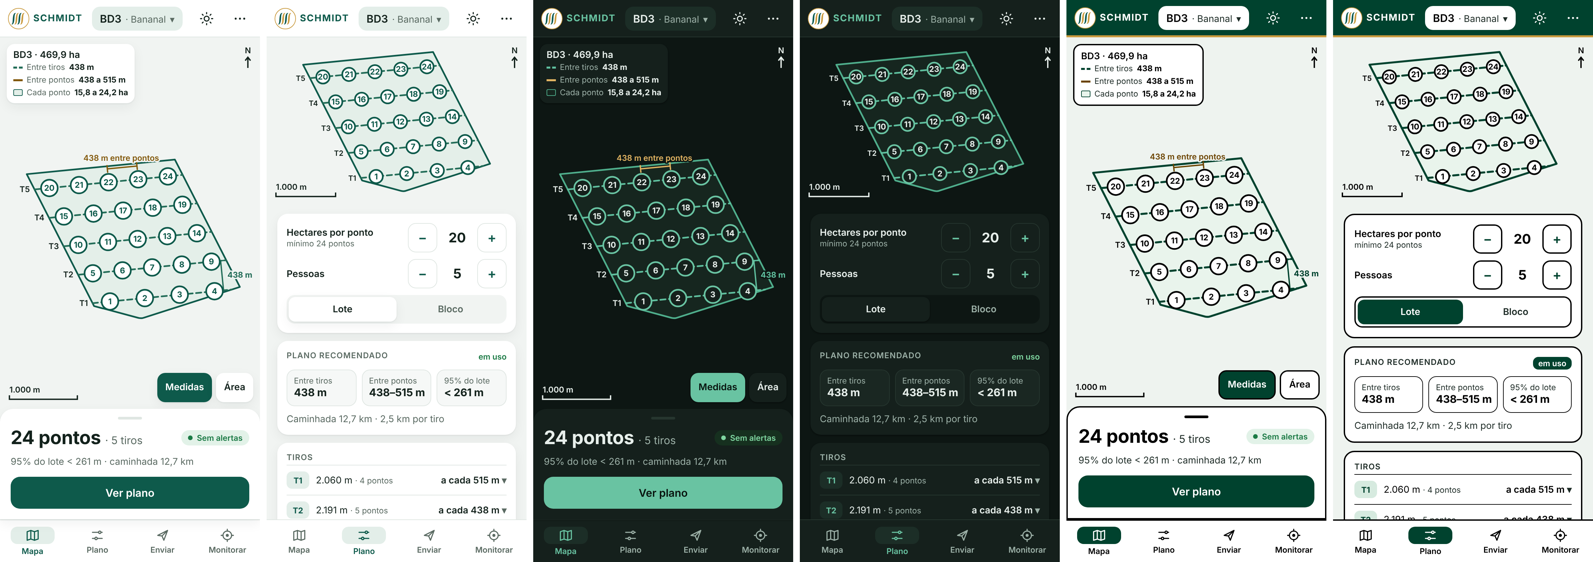
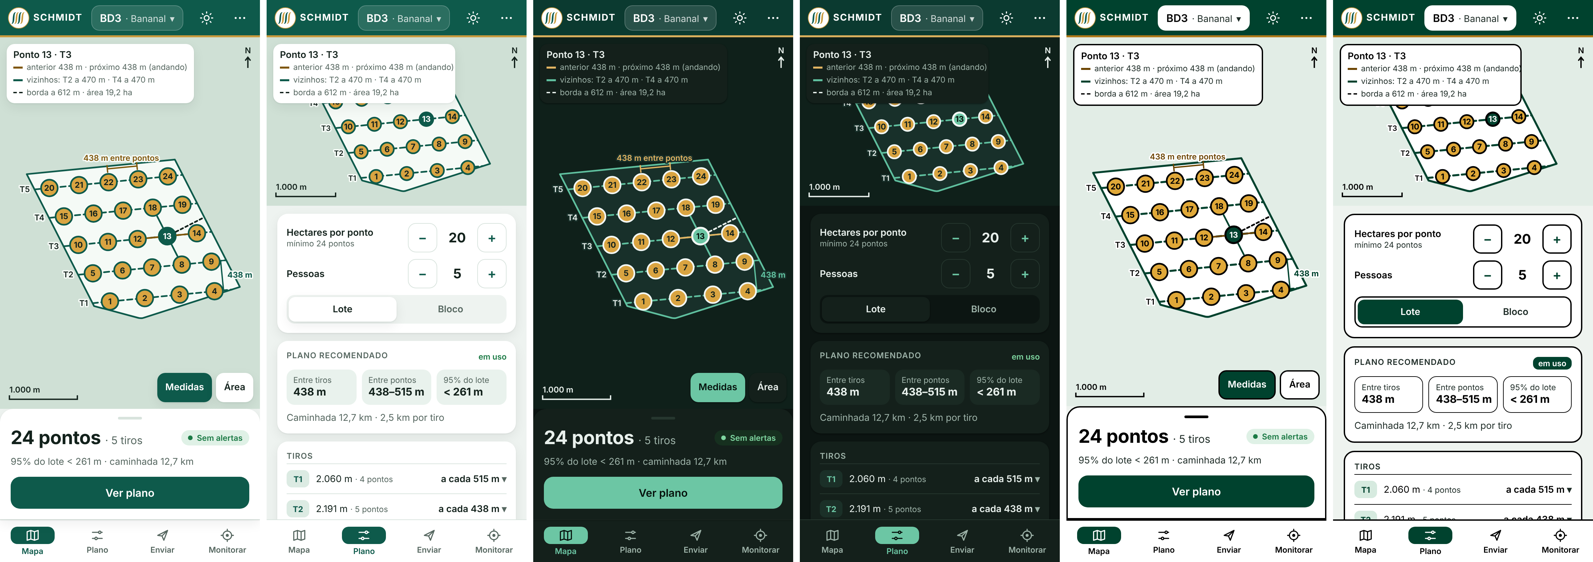
3.0.9: paleta preenchida com a identidade da marca
Pedido do proprietário: mais identidade, verde, dourado e branco preenchidos.
Topo verde com faixa dourada (claro e escuro); mapa com fundo verde-sálvia e
o lote claro por cima; pontos dourados com aro verde (cor própria, coesa com
as medidas "entre pontos"); ponto tocado em verde; aba ativa e números do
plano preenchidos. Balão do ponto só no mapa principal (não cobre o mapa do
Plano). Contraste: 31 pares nos 3 temas, 0 falhas.

Claude-Session: https://claude.ai/code/session_01SGCmb3uV61KLHudqrpVVZr

diff --git a/index.html b/index.html
@@ -1,20 +1,21 @@
 <!doctype html>
 <html lang="pt-BR"><head><meta charset="utf-8">
 <meta name="viewport" content="width=device-width,initial-scale=1,viewport-fit=cover">
-<meta http-equiv="Content-Security-Policy" content="default-src 'self'; script-src 'sha256-r+ZOXaF1whtfwFCohYaXkNYxLkSG0AwZeYz0j3hYeJk=' 'sha256-s+erj+jAV5rZu8F9pJFMvg+9cr8ec9wvS4ggAYwaDLI='; style-src 'sha256-DRbRsPPvzTdi44R3hPJ2eCCKcXLEdeDpL+uQRxfPniQ='; img-src 'self' data: blob:; connect-src 'self'; worker-src 'self'; manifest-src 'self'; object-src 'none'; base-uri 'none'; form-action 'none'">
+<meta http-equiv="Content-Security-Policy" content="default-src 'self'; script-src 'sha256-r+ZOXaF1whtfwFCohYaXkNYxLkSG0AwZeYz0j3hYeJk=' 'sha256-gA7vjJTwhrWDU9S8o5WlJGwZRpuUzpkBZJLaRuvyJAI='; style-src 'sha256-gmlrnAccgAnvYE3rEZkGydbh8o12ml7u2P3/mBMiDC8='; img-src 'self' data: blob:; connect-src 'self'; worker-src 'self'; manifest-src 'self'; object-src 'none'; base-uri 'none'; form-action 'none'">
 <meta name="theme-color" content="#17594a" media="(prefers-color-scheme: light)"><meta name="theme-color" content="#0c1512" media="(prefers-color-scheme: dark)">
 <title>SCHMIDT Campo</title>
 <link rel="icon" href="marca.svg"><link rel="apple-touch-icon" href="marca-180.png"><link rel="manifest" href="app.webmanifest">
 <style>/* 3.0 · uma folha só. Tipografia: 12/14/16/20/28 px; pesos 400/600/700. Cores em tokens; escuro e Sol. */
-/* Paleta SCHMIDT (3.1): verde da marca (#0B5A50 do logo) + dourado (#C99A3E) nas medidas; neutros esverdeados frios.
-   Tiros e "entre tiros" em verde; intervalos "entre pontos" em dourado; pontos brancos com aro verde (selecionado: dourado). */
-:root{--bg:#f1f4f2;--sf:#fff;--sf2:#f6f8f7;--ink:#13221c;--mu:#5a6a62;--ln:#dfe6e2;--br:#0e5a4b;--br2:#e3eee9;--on-br:#fff;--gold:#c99a3e;
---pt:#82580b;--tr:#236d58;--ptf:#fff;--ptr:#0e5a4b;--pti:#0e5a4b;--fd:#e4efe9;--fl:#0e5a4b;
---ok:#1b7a45;--oks:#e2f2e8;--al:#94600a;--als:#fbf1dc;--er:#b42318;--ers:#fdeceb;--sh:0 1px 2px #0d221a12,0 6px 18px #0d221a0f;--focus:#1d5fd1;color-scheme:light}
-@media (prefers-color-scheme:dark){:root:not(.sun){--bg:#0d1613;--sf:#15201c;--sf2:#1a2722;--ink:#e7efeb;--mu:#9cb0a7;--ln:#26362f;--br:#69c3a2;--br2:#1c2e27;--on-br:#08130e;--gold:#d9ae5c;
---pt:#e2b462;--tr:#5fbf9e;--ptf:#15201c;--ptr:#69c3a2;--pti:#e7efeb;--fd:#16261f;--fl:#4fae8c;
+/* Paleta SCHMIDT (3.1): verde da marca (#0B5A50 do logo), dourado (#C99A3E) e branco, preenchidos. Topo verde com faixa
+   dourada; mapa em fundo verde-sálvia com o lote claro; pontos dourados (número escuro, aro branco) sobre tiros verdes;
+   ponto tocado em verde. Medidas "entre pontos" no dourado dos pontos; "entre tiros" no verde dos tiros. */
+:root{--bg:#eef3f0;--sf:#fff;--sf2:#e9f2ed;--ink:#13221c;--mu:#566760;--ln:#d8e3dd;--br:#0e5a4b;--br2:#dcebe3;--on-br:#fff;--gold:#c99a3e;
+--hd:#0e5a4b;--hd-ink:#fff;--mapbg:#cfe0d5;--pt:#7f560a;--tr:#0e5a4b;--ptf:#d9a441;--ptr:#0e5a4b;--pti:#13221c;--fd:#f5faf6;--fl:#0e5a4b;
+--ok:#1b7a45;--oks:#dff1e6;--al:#8d5c08;--als:#fbefd6;--er:#b42318;--ers:#fdeceb;--sh:0 1px 2px #0d221a14,0 6px 18px #0d221a12;--focus:#1d5fd1;color-scheme:light}
+@media (prefers-color-scheme:dark){:root:not(.sun){--bg:#0c1512;--sf:#14201b;--sf2:#1a2a23;--ink:#e8f0ec;--mu:#9db2a8;--ln:#26372f;--br:#6cc6a4;--br2:#1b3028;--on-br:#06110c;--gold:#d9ae5c;
+--hd:#0b3a30;--hd-ink:#fff;--mapbg:#0f201a;--pt:#e2b462;--tr:#5fbf9e;--ptf:#d9a441;--ptr:#f2f7f4;--pti:#13221c;--fd:#18302a;--fl:#5fbf9e;
 --ok:#7fd6a0;--oks:#16301f;--al:#f0c26a;--als:#33280f;--er:#ff8f85;--ers:#3a1714;--sh:0 1px 2px #0007;--focus:#8ab4ff;color-scheme:dark}}
-:root.sun{--bg:#eef3ef;--sf:#fff;--sf2:#fff;--ink:#000;--mu:#1d2b26;--ln:#000;--br:#00422e;--br2:#d6eadf;--on-br:#fff;--gold:#b07a1a;--pt:#6b4300;--tr:#00422e;--ptf:#fff;--ptr:#000;--pti:#000;--fd:#e9f4ec;--fl:#00422e;--sh:none}
+:root.sun{--bg:#eef3ef;--sf:#fff;--sf2:#fff;--ink:#000;--mu:#1d2b26;--ln:#000;--br:#00422e;--br2:#d6eadf;--on-br:#fff;--gold:#b07a1a;--hd:#00422e;--hd-ink:#fff;--mapbg:#e2ede6;--pt:#6b4300;--tr:#00422e;--ptf:#e0a838;--ptr:#000;--pti:#000;--fd:#fff;--fl:#00422e;--sh:none}
 *{box-sizing:border-box;margin:0}
 html,body{height:100%}
 body{background:var(--bg);color:var(--ink);font:400 14px/1.4 system-ui,-apple-system,"Segoe UI",Roboto,sans-serif;display:flex;flex-direction:column;overflow:hidden;-webkit-tap-highlight-color:transparent}
@@ -22,15 +23,15 @@ button,input{font:inherit;color:inherit}
 button{background:none;border:0;cursor:pointer;padding:0}
 :focus-visible{outline:3px solid var(--focus);outline-offset:2px}
 .skip{position:absolute;left:-9999px}.skip:focus{left:8px;top:8px;z-index:9;background:var(--sf);padding:8px}
-header{height:56px;flex:none;display:flex;align-items:center;gap:6px;padding:0 8px 0 12px;background:var(--sf);border-bottom:1px solid var(--ln)}
-.logo{display:flex;align-items:center;gap:6px;font:700 14px system-ui;letter-spacing:.08em;color:var(--br)}
+header{height:56px;flex:none;display:flex;align-items:center;gap:6px;padding:0 8px 0 12px;background:var(--hd);color:var(--hd-ink);border-bottom:3px solid var(--gold)}
+.logo{display:flex;align-items:center;gap:6px;font:700 14px system-ui;letter-spacing:.08em;color:var(--hd-ink)}
 .logo svg{width:32px;height:32px;flex:none}
-.lot{margin:0 auto;display:flex;align-items:baseline;gap:6px;padding:8px 12px;border-radius:12px;background:var(--br2);font:600 16px system-ui;max-width:52vw;overflow:hidden;white-space:nowrap}
+.lot{margin:0 auto;display:flex;align-items:baseline;gap:6px;padding:8px 12px;border-radius:12px;background:#ffffff1f;color:var(--hd-ink);border:1px solid #ffffff38;font:600 16px system-ui;max-width:52vw;overflow:hidden;white-space:nowrap}
 .lot small{font:400 14px system-ui;color:var(--mu);overflow:hidden;text-overflow:ellipsis}
 .ib{width:44px;height:44px;border-radius:12px;display:grid;place-items:center}
 .ic{width:22px;height:22px;fill:none;stroke:currentColor;stroke-width:1.8;stroke-linecap:round;stroke-linejoin:round}.ic .fill{fill:currentColor;stroke:none}
 main{flex:1;min-height:0;display:flex;flex-direction:column;position:relative}
-.map{flex:1;min-height:0;position:relative;touch-action:none;overflow:hidden;user-select:none}.map.sm{flex:none;height:30vh;min-height:190px}
+.map{flex:1;min-height:0;position:relative;touch-action:none;overflow:hidden;user-select:none;background:var(--mapbg)}.map.sm{flex:none;height:30vh;min-height:190px}
 .map-svg{display:block;width:100%;height:100%}
 .map-svg .lot{fill:var(--fd);stroke:var(--fl);stroke-width:2.5;stroke-linejoin:round}
 .map-svg .track{fill:none;stroke:var(--tr);stroke-width:2.5;stroke-dasharray:8 5;stroke-linecap:round}
@@ -44,7 +45,7 @@ main{flex:1;min-height:0;display:flex;flex-direction:column;position:relative}
 .row-sb{display:flex;justify-content:space-between;align-items:center;gap:8px}
 .big{font:700 28px/1.1 system-ui;letter-spacing:-.01em}.big span{font:400 16px system-ui;color:var(--mu);letter-spacing:0}.big.md{font-size:20px}
 .m3{display:grid;grid-template-columns:repeat(3,minmax(0,1fr));gap:8px}
-.m{background:var(--sf2);border:1px solid var(--ln);border-radius:12px;padding:8px 10px;white-space:nowrap;overflow:hidden}
+.m{background:var(--sf2);border-radius:12px;padding:8px 10px;white-space:nowrap;overflow:hidden}
 .m small{display:block;font:400 12px system-ui;color:var(--mu)}.m b{font:700 16px system-ui;letter-spacing:-.01em}
 .chip{display:inline-flex;align-items:center;gap:6px;font:600 12px system-ui;padding:4px 10px;border-radius:99px;white-space:nowrap}
 .chip:before{content:"";width:7px;height:7px;border-radius:50%;background:currentColor}
@@ -57,7 +58,7 @@ main{flex:1;min-height:0;display:flex;flex-direction:column;position:relative}
 .center{text-align:center;color:var(--mu)}
 nav{height:64px;flex:none;display:grid;grid-template-columns:repeat(4,1fr);background:var(--sf);border-top:1px solid var(--ln);padding-bottom:env(safe-area-inset-bottom)}
 nav button{display:flex;flex-direction:column;align-items:center;justify-content:center;gap:3px;font:600 12px system-ui;color:var(--mu)}
-nav button.on{color:var(--br)}nav button.on .ic{background:var(--br2);border-radius:10px;width:44px;padding:2px 11px;box-sizing:content-box}
+nav button.on{color:var(--br)}nav button.on .ic{background:var(--br);color:var(--on-br);border-radius:10px;width:44px;padding:2px 11px;box-sizing:content-box}
 .scroll{flex:1;min-height:0;overflow:auto;padding:12px 16px 16px;display:flex;flex-direction:column;gap:12px;overscroll-behavior:contain}
 .card{background:var(--sf);border-radius:16px;padding:14px;box-shadow:var(--sh);display:flex;flex-direction:column;gap:10px}
 .card.list{gap:0}
@@ -96,7 +97,7 @@ nav button.on{color:var(--br)}nav button.on .ic{background:var(--br2);border-rad
 #toast button{font:700 14px system-ui;color:var(--sf);text-decoration:underline;min-height:32px;padding:0 4px}
 @media (min-width:900px){body{max-width:480px;margin:0 auto;border-inline:1px solid var(--ln)}}
 
-.map-svg .pt.sel circle{fill:var(--gold);stroke:var(--ink);stroke-width:2.5}.map-svg .pt.sel text{fill:#13221c}
+.map-svg .pt.sel circle{fill:var(--br);stroke:var(--ptr);stroke-width:3}.map-svg .pt.sel text{fill:var(--on-br)}
 .fit{position:absolute;right:10px;bottom:10px;width:44px;height:44px;border-radius:12px;background:var(--sf);box-shadow:var(--sh);font-size:20px}
 .bal{position:absolute;left:10px;top:10px;max-width:70%;background:var(--sf);box-shadow:var(--sh);border-radius:12px;padding:8px 10px;display:flex;flex-direction:column;gap:2px;font-size:12px;color:var(--mu);pointer-events:none}
 .bal b{font:600 14px system-ui;color:var(--ink)}
@@ -129,7 +130,7 @@ nav button.on{color:var(--br)}nav button.on .ic{background:var(--br2);border-rad
 .blk{display:flex;flex-direction:column;gap:6px}
 /* 3.1 · medidas no mapa (U03) */
 .map-svg text{paint-order:stroke;stroke-linejoin:round}
-.map-svg .tid,.map-svg .med-t,.map-svg .med-p,.map-svg .ha,.map-svg .sel-l{stroke:var(--bg);stroke-width:4px}
+.map-svg .tid,.map-svg .med-t,.map-svg .med-p,.map-svg .ha,.map-svg .sel-l{stroke:var(--fd);stroke-width:4px}
 .map-svg .pt text{stroke:none}
 .map-svg .med-t{font:700 12px system-ui;fill:var(--tr)}.map-svg .med-p{font:600 12px system-ui;fill:var(--pt)}
 .map-svg .ha{font:600 12px system-ui;fill:var(--ink)}.map-svg .sel-l{font:700 13px system-ui;fill:var(--ink)}
@@ -154,14 +155,15 @@ nav button.on{color:var(--br)}nav button.on .ic{background:var(--br2);border-rad
 .map-svg .track.hi{stroke-width:5;stroke-dasharray:none}.map-svg .track.lo{opacity:.35}
 /* Sol (alto contraste para enxergar no sol) com a identidade SCHMIDT: topo verde da marca, cartões com borda forte,
    seleções preenchidas — nada some no branco */
-:root.sun header{background:var(--br);border-bottom:3px solid #c99a3e}:root.sun header .logo{color:#fff}
-:root.sun header .ib{color:#fff}:root.sun .lot{background:#fff;color:#000}
 :root.sun .card,:root.sun .sheet{border:2px solid #000}:root.sun .m{background:#fff;border:1.5px solid #000}
 :root.sun .seg{background:#fff;border:2px solid #000}:root.sun .seg button.on{background:var(--br);color:#fff}
 :root.sun nav{border-top:2px solid #000}:root.sun nav button{color:#000}:root.sun nav button.on .ic{background:var(--br);color:#fff}
 :root.sun .stp button{border-width:2px}:root.sun .tag{background:var(--br);color:#fff;padding:2px 8px;border-radius:8px}
 :root.sun .map-svg .lot{stroke-width:3}:root.sun .map-svg .track{stroke-width:3}
 :root.sun .leg,:root.sun .bal,:root.sun .mt{border:2px solid #000}
+header .ib{color:var(--hd-ink)}.lot small{color:#ffffffc7}
+:root.sun .lot{background:#fff;color:#000}:root.sun .lot small{color:#1d2b26}
+.map-svg .lot{stroke-width:2.5}
 </style></head>
 <body>
 <a class="skip" href="#view">Ir para o conteúdo</a>
@@ -5533,7 +5535,7 @@ function installMapa(app) {
       el.innerHTML = mapMarkup(cur.field, cur.sc, W, H, { small: !full, view, selected: guide ? g.target : selectedPt, pos: guide ? g.pos : null, to: guide ? g.to : null, heading: guide ? g.heading : null, hiTrack: !full && !guide ? app.hiTrack : null, focus: guide ? g.focus : null, others: cur.others || [], ...opts })
         + (full ? (info ? balloon() : V.legend(cur.field, P.figures(cur.sc), areas)) + V.mapTools(layers, moved(view))
           : guide && g.pos ? `<button class="fit" data-act="follow" aria-pressed="${!!g.follow}" aria-label="${g.follow ? 'Ver o lote inteiro' : 'Seguir minha posição'}">${g.follow ? '⤢' : '◎'}</button>`
-            : (moved(view) ? '<button class="fit" data-act="fit" aria-label="Enquadrar o lote">⤢</button>' : '') + balloon());
+            : (moved(view) ? '<button class="fit" data-act="fit" aria-label="Enquadrar o lote">⤢</button>' : ''));
       if (!el.dataset.g) {
         el.dataset.g = '1';
         const k2 = full ? 'full' : el.dataset.map === 'guide' ? 'guide' : 'small';

diff --git a/src/app3/styles.css b/src/app3/styles.css
@@ -1,13 +1,14 @@
 /* 3.0 · uma folha só. Tipografia: 12/14/16/20/28 px; pesos 400/600/700. Cores em tokens; escuro e Sol. */
-/* Paleta SCHMIDT (3.1): verde da marca (#0B5A50 do logo) + dourado (#C99A3E) nas medidas; neutros esverdeados frios.
-   Tiros e "entre tiros" em verde; intervalos "entre pontos" em dourado; pontos brancos com aro verde (selecionado: dourado). */
-:root{--bg:#f1f4f2;--sf:#fff;--sf2:#f6f8f7;--ink:#13221c;--mu:#5a6a62;--ln:#dfe6e2;--br:#0e5a4b;--br2:#e3eee9;--on-br:#fff;--gold:#c99a3e;
---pt:#82580b;--tr:#236d58;--ptf:#fff;--ptr:#0e5a4b;--pti:#0e5a4b;--fd:#e4efe9;--fl:#0e5a4b;
---ok:#1b7a45;--oks:#e2f2e8;--al:#94600a;--als:#fbf1dc;--er:#b42318;--ers:#fdeceb;--sh:0 1px 2px #0d221a12,0 6px 18px #0d221a0f;--focus:#1d5fd1;color-scheme:light}
-@media (prefers-color-scheme:dark){:root:not(.sun){--bg:#0d1613;--sf:#15201c;--sf2:#1a2722;--ink:#e7efeb;--mu:#9cb0a7;--ln:#26362f;--br:#69c3a2;--br2:#1c2e27;--on-br:#08130e;--gold:#d9ae5c;
---pt:#e2b462;--tr:#5fbf9e;--ptf:#15201c;--ptr:#69c3a2;--pti:#e7efeb;--fd:#16261f;--fl:#4fae8c;
+/* Paleta SCHMIDT (3.1): verde da marca (#0B5A50 do logo), dourado (#C99A3E) e branco, preenchidos. Topo verde com faixa
+   dourada; mapa em fundo verde-sálvia com o lote claro; pontos dourados (número escuro, aro branco) sobre tiros verdes;
+   ponto tocado em verde. Medidas "entre pontos" no dourado dos pontos; "entre tiros" no verde dos tiros. */
+:root{--bg:#eef3f0;--sf:#fff;--sf2:#e9f2ed;--ink:#13221c;--mu:#566760;--ln:#d8e3dd;--br:#0e5a4b;--br2:#dcebe3;--on-br:#fff;--gold:#c99a3e;
+--hd:#0e5a4b;--hd-ink:#fff;--mapbg:#cfe0d5;--pt:#7f560a;--tr:#0e5a4b;--ptf:#d9a441;--ptr:#0e5a4b;--pti:#13221c;--fd:#f5faf6;--fl:#0e5a4b;
+--ok:#1b7a45;--oks:#dff1e6;--al:#8d5c08;--als:#fbefd6;--er:#b42318;--ers:#fdeceb;--sh:0 1px 2px #0d221a14,0 6px 18px #0d221a12;--focus:#1d5fd1;color-scheme:light}
+@media (prefers-color-scheme:dark){:root:not(.sun){--bg:#0c1512;--sf:#14201b;--sf2:#1a2a23;--ink:#e8f0ec;--mu:#9db2a8;--ln:#26372f;--br:#6cc6a4;--br2:#1b3028;--on-br:#06110c;--gold:#d9ae5c;
+--hd:#0b3a30;--hd-ink:#fff;--mapbg:#0f201a;--pt:#e2b462;--tr:#5fbf9e;--ptf:#d9a441;--ptr:#f2f7f4;--pti:#13221c;--fd:#18302a;--fl:#5fbf9e;
 --ok:#7fd6a0;--oks:#16301f;--al:#f0c26a;--als:#33280f;--er:#ff8f85;--ers:#3a1714;--sh:0 1px 2px #0007;--focus:#8ab4ff;color-scheme:dark}}
-:root.sun{--bg:#eef3ef;--sf:#fff;--sf2:#fff;--ink:#000;--mu:#1d2b26;--ln:#000;--br:#00422e;--br2:#d6eadf;--on-br:#fff;--gold:#b07a1a;--pt:#6b4300;--tr:#00422e;--ptf:#fff;--ptr:#000;--pti:#000;--fd:#e9f4ec;--fl:#00422e;--sh:none}
+:root.sun{--bg:#eef3ef;--sf:#fff;--sf2:#fff;--ink:#000;--mu:#1d2b26;--ln:#000;--br:#00422e;--br2:#d6eadf;--on-br:#fff;--gold:#b07a1a;--hd:#00422e;--hd-ink:#fff;--mapbg:#e2ede6;--pt:#6b4300;--tr:#00422e;--ptf:#e0a838;--ptr:#000;--pti:#000;--fd:#fff;--fl:#00422e;--sh:none}
 *{box-sizing:border-box;margin:0}
 html,body{height:100%}
 body{background:var(--bg);color:var(--ink);font:400 14px/1.4 system-ui,-apple-system,"Segoe UI",Roboto,sans-serif;display:flex;flex-direction:column;overflow:hidden;-webkit-tap-highlight-color:transparent}
@@ -15,15 +16,15 @@ button,input{font:inherit;color:inherit}
 button{background:none;border:0;cursor:pointer;padding:0}
 :focus-visible{outline:3px solid var(--focus);outline-offset:2px}
 .skip{position:absolute;left:-9999px}.skip:focus{left:8px;top:8px;z-index:9;background:var(--sf);padding:8px}
-header{height:56px;flex:none;display:flex;align-items:center;gap:6px;padding:0 8px 0 12px;background:var(--sf);border-bottom:1px solid var(--ln)}
-.logo{display:flex;align-items:center;gap:6px;font:700 14px system-ui;letter-spacing:.08em;color:var(--br)}
+header{height:56px;flex:none;display:flex;align-items:center;gap:6px;padding:0 8px 0 12px;background:var(--hd);color:var(--hd-ink);border-bottom:3px solid var(--gold)}
+.logo{display:flex;align-items:center;gap:6px;font:700 14px system-ui;letter-spacing:.08em;color:var(--hd-ink)}
 .logo svg{width:32px;height:32px;flex:none}
-.lot{margin:0 auto;display:flex;align-items:baseline;gap:6px;padding:8px 12px;border-radius:12px;background:var(--br2);font:600 16px system-ui;max-width:52vw;overflow:hidden;white-space:nowrap}
+.lot{margin:0 auto;display:flex;align-items:baseline;gap:6px;padding:8px 12px;border-radius:12px;background:#ffffff1f;color:var(--hd-ink);border:1px solid #ffffff38;font:600 16px system-ui;max-width:52vw;overflow:hidden;white-space:nowrap}
 .lot small{font:400 14px system-ui;color:var(--mu);overflow:hidden;text-overflow:ellipsis}
 .ib{width:44px;height:44px;border-radius:12px;display:grid;place-items:center}
 .ic{width:22px;height:22px;fill:none;stroke:currentColor;stroke-width:1.8;stroke-linecap:round;stroke-linejoin:round}.ic .fill{fill:currentColor;stroke:none}
 main{flex:1;min-height:0;display:flex;flex-direction:column;position:relative}
-.map{flex:1;min-height:0;position:relative;touch-action:none;overflow:hidden;user-select:none}.map.sm{flex:none;height:30vh;min-height:190px}
+.map{flex:1;min-height:0;position:relative;touch-action:none;overflow:hidden;user-select:none;background:var(--mapbg)}.map.sm{flex:none;height:30vh;min-height:190px}
 .map-svg{display:block;width:100%;height:100%}
 .map-svg .lot{fill:var(--fd);stroke:var(--fl);stroke-width:2.5;stroke-linejoin:round}
 .map-svg .track{fill:none;stroke:var(--tr);stroke-width:2.5;stroke-dasharray:8 5;stroke-linecap:round}
@@ -37,7 +38,7 @@ main{flex:1;min-height:0;display:flex;flex-direction:column;position:relative}
 .row-sb{display:flex;justify-content:space-between;align-items:center;gap:8px}
 .big{font:700 28px/1.1 system-ui;letter-spacing:-.01em}.big span{font:400 16px system-ui;color:var(--mu);letter-spacing:0}.big.md{font-size:20px}
 .m3{display:grid;grid-template-columns:repeat(3,minmax(0,1fr));gap:8px}
-.m{background:var(--sf2);border:1px solid var(--ln);border-radius:12px;padding:8px 10px;white-space:nowrap;overflow:hidden}
+.m{background:var(--sf2);border-radius:12px;padding:8px 10px;white-space:nowrap;overflow:hidden}
 .m small{display:block;font:400 12px system-ui;color:var(--mu)}.m b{font:700 16px system-ui;letter-spacing:-.01em}
 .chip{display:inline-flex;align-items:center;gap:6px;font:600 12px system-ui;padding:4px 10px;border-radius:99px;white-space:nowrap}
 .chip:before{content:"";width:7px;height:7px;border-radius:50%;background:currentColor}
@@ -50,7 +51,7 @@ main{flex:1;min-height:0;display:flex;flex-direction:column;position:relative}
 .center{text-align:center;color:var(--mu)}
 nav{height:64px;flex:none;display:grid;grid-template-columns:repeat(4,1fr);background:var(--sf);border-top:1px solid var(--ln);padding-bottom:env(safe-area-inset-bottom)}
 nav button{display:flex;flex-direction:column;align-items:center;justify-content:center;gap:3px;font:600 12px system-ui;color:var(--mu)}
-nav button.on{color:var(--br)}nav button.on .ic{background:var(--br2);border-radius:10px;width:44px;padding:2px 11px;box-sizing:content-box}
+nav button.on{color:var(--br)}nav button.on .ic{background:var(--br);color:var(--on-br);border-radius:10px;width:44px;padding:2px 11px;box-sizing:content-box}
 .scroll{flex:1;min-height:0;overflow:auto;padding:12px 16px 16px;display:flex;flex-direction:column;gap:12px;overscroll-behavior:contain}
 .card{background:var(--sf);border-radius:16px;padding:14px;box-shadow:var(--sh);display:flex;flex-direction:column;gap:10px}
 .card.list{gap:0}
@@ -89,7 +90,7 @@ nav button.on{color:var(--br)}nav button.on .ic{background:var(--br2);border-rad
 #toast button{font:700 14px system-ui;color:var(--sf);text-decoration:underline;min-height:32px;padding:0 4px}
 @media (min-width:900px){body{max-width:480px;margin:0 auto;border-inline:1px solid var(--ln)}}
 
-.map-svg .pt.sel circle{fill:var(--gold);stroke:var(--ink);stroke-width:2.5}.map-svg .pt.sel text{fill:#13221c}
+.map-svg .pt.sel circle{fill:var(--br);stroke:var(--ptr);stroke-width:3}.map-svg .pt.sel text{fill:var(--on-br)}
 .fit{position:absolute;right:10px;bottom:10px;width:44px;height:44px;border-radius:12px;background:var(--sf);box-shadow:var(--sh);font-size:20px}
 .bal{position:absolute;left:10px;top:10px;max-width:70%;background:var(--sf);box-shadow:var(--sh);border-radius:12px;padding:8px 10px;display:flex;flex-direction:column;gap:2px;font-size:12px;color:var(--mu);pointer-events:none}
 .bal b{font:600 14px system-ui;color:var(--ink)}
@@ -122,7 +123,7 @@ nav button.on{color:var(--br)}nav button.on .ic{background:var(--br2);border-rad
 .blk{display:flex;flex-direction:column;gap:6px}
 /* 3.1 · medidas no mapa (U03) */
 .map-svg text{paint-order:stroke;stroke-linejoin:round}
-.map-svg .tid,.map-svg .med-t,.map-svg .med-p,.map-svg .ha,.map-svg .sel-l{stroke:var(--bg);stroke-width:4px}
+.map-svg .tid,.map-svg .med-t,.map-svg .med-p,.map-svg .ha,.map-svg .sel-l{stroke:var(--fd);stroke-width:4px}
 .map-svg .pt text{stroke:none}
 .map-svg .med-t{font:700 12px system-ui;fill:var(--tr)}.map-svg .med-p{font:600 12px system-ui;fill:var(--pt)}
 .map-svg .ha{font:600 12px system-ui;fill:var(--ink)}.map-svg .sel-l{font:700 13px system-ui;fill:var(--ink)}
@@ -147,11 +148,12 @@ nav button.on{color:var(--br)}nav button.on .ic{background:var(--br2);border-rad
 .map-svg .track.hi{stroke-width:5;stroke-dasharray:none}.map-svg .track.lo{opacity:.35}
 /* Sol (alto contraste para enxergar no sol) com a identidade SCHMIDT: topo verde da marca, cartões com borda forte,
    seleções preenchidas — nada some no branco */
-:root.sun header{background:var(--br);border-bottom:3px solid #c99a3e}:root.sun header .logo{color:#fff}
-:root.sun header .ib{color:#fff}:root.sun .lot{background:#fff;color:#000}
 :root.sun .card,:root.sun .sheet{border:2px solid #000}:root.sun .m{background:#fff;border:1.5px solid #000}
 :root.sun .seg{background:#fff;border:2px solid #000}:root.sun .seg button.on{background:var(--br);color:#fff}
 :root.sun nav{border-top:2px solid #000}:root.sun nav button{color:#000}:root.sun nav button.on .ic{background:var(--br);color:#fff}
 :root.sun .stp button{border-width:2px}:root.sun .tag{background:var(--br);color:#fff;padding:2px 8px;border-radius:8px}
 :root.sun .map-svg .lot{stroke-width:3}:root.sun .map-svg .track{stroke-width:3}
 :root.sun .leg,:root.sun .bal,:root.sun .mt{border:2px solid #000}
+header .ib{color:var(--hd-ink)}.lot small{color:#ffffffc7}
+:root.sun .lot{background:#fff;color:#000}:root.sun .lot small{color:#1d2b26}
+.map-svg .lot{stroke-width:2.5}

diff --git a/sw.js b/sw.js
@@ -1,6 +1,6 @@
 // Atualização controlada: esta versão espera as abas da anterior fecharem.
-const CACHE = 'schmidt-3-550cafd41d';
[1 lines of base64/hex data omitted]
+const CACHE = 'schmidt-3-4170539cae';
[1 lines of base64/hex data omitted]
 const ARQUIVOS = ['./','index.html','motor.js','app.webmanifest','marca.svg','marca-192.png','marca-512.png','marca-180.png'];
 self.addEventListener('install',event=>{
   event.waitUntil((async()=>{

diff --git a/audit/contraste-paleta.py b/audit/contraste-paleta.py
@@ -13,7 +13,7 @@ def lum(h):
     return 0.2126*c[0]+0.7152*c[1]+0.0722*c[2]
 def cr(a,b): la,lb=sorted([lum(a),lum(b)],reverse=True); return (la+0.05)/(lb+0.05)
 pairs=[('ink','bg',4.5),('ink','sf',4.5),('mu','sf',4.5),('mu','bg',4.5),('mu','sf2',4.5),('br','sf',4.5),('br','bg',4.5),('on-br','br',4.5),('br','br2',4.5),
-('pt','bg',4.5),('pt','fd',4.5),('tr','bg',4.5),('tr','fd',4.5),('pti','ptf',4.5),('ptr','fd',3),('fl','fd',3),('tr','fd',3),('ok','oks',4.5),('al','als',4.5),('er','ers',4.5),('ink','br2',4.5)]
+('pt','bg',4.5),('pt','fd',4.5),('tr','bg',4.5),('tr','fd',4.5),('pti','ptf',4.5),('ptr','fd',3),('fl','fd',3),('tr','fd',3),('ok','oks',4.5),('al','als',4.5),('er','ers',4.5),('ink','br2',4.5),('hd-ink','hd',4.5),('pti','ptf',4.5),('ptr','fd',3),('fl','mapbg',3),('ink','mapbg',4.5),('pt','fd',4.5),('tr','fd',3),('ink','sf2',4.5),('br','sf2',4.5)]
 bad=0
 for name,t in [('claro',light),('escuro',dark),('sol',sun)]:
     for a,b,m in pairs:
